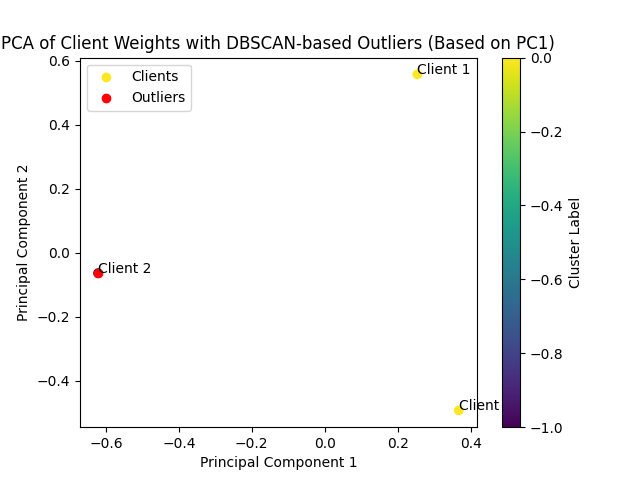
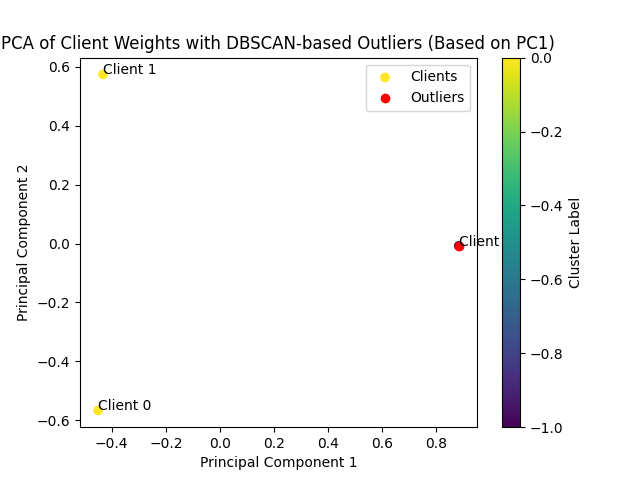
ok

diff --git a/fl_server_checked.py b/fl_server_checked.py
@@ -344,7 +344,7 @@ class CustomFedAvg(fl.server.strategy.FedAvg):
                                 # Ensure weights are float32
                         numeric_w = np.array(w, dtype=np.float32)  
                                 # Scale the weight and add to adjusted weights
-                        adjusted_weights.append(numeric_w * 0)  
+                        adjusted_weights.append(numeric_w * 1)  
                     except Exception as e:
                         print(f"Warning: Could not scale weights for client {client_id} due to incompatible type: {e}")
                         adjusted_weights.append(w)  # Retain original weight if conversion fails
